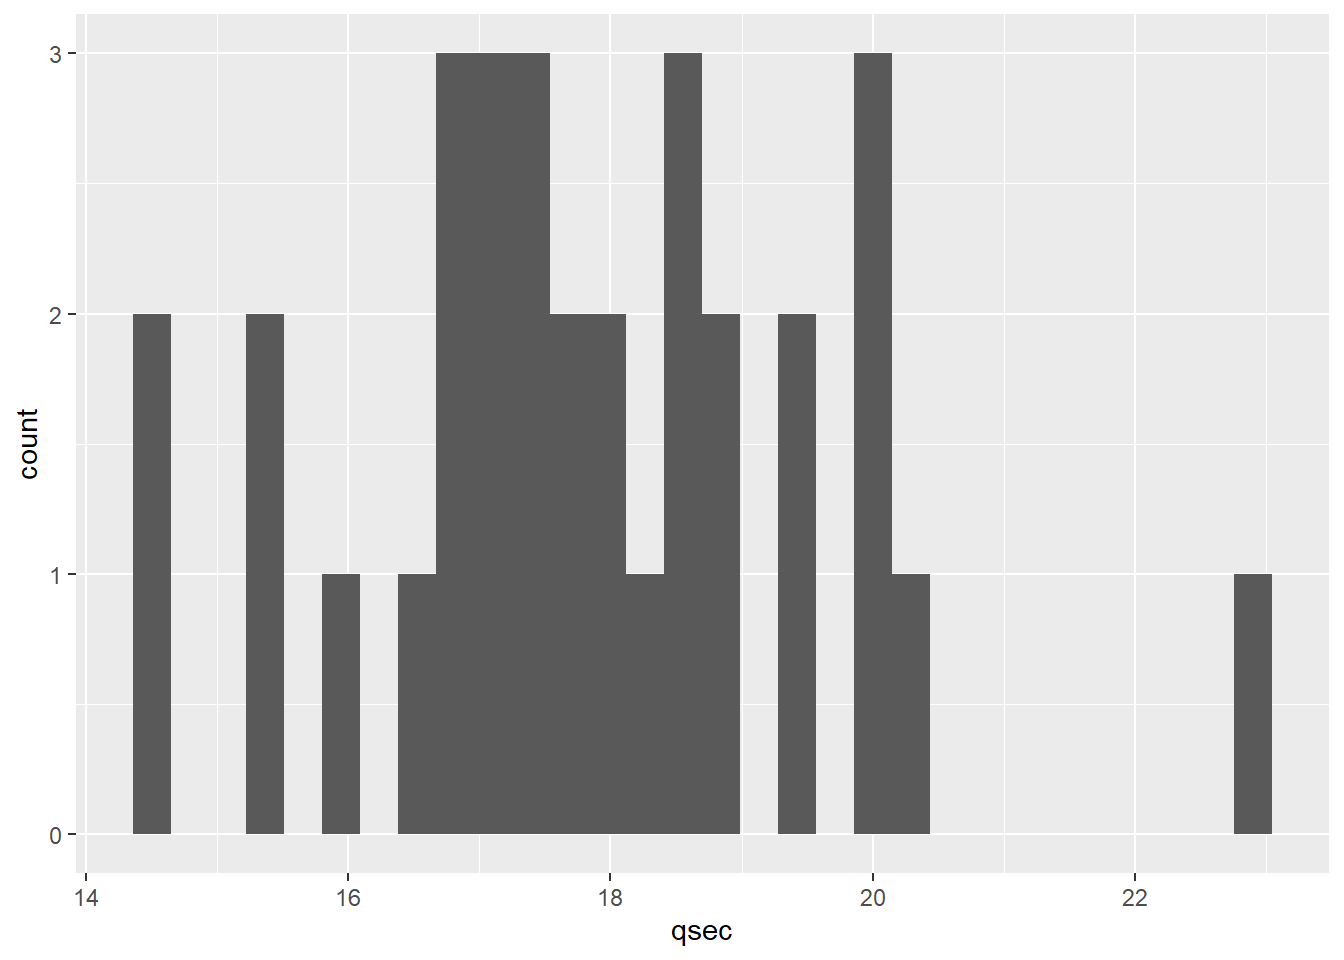
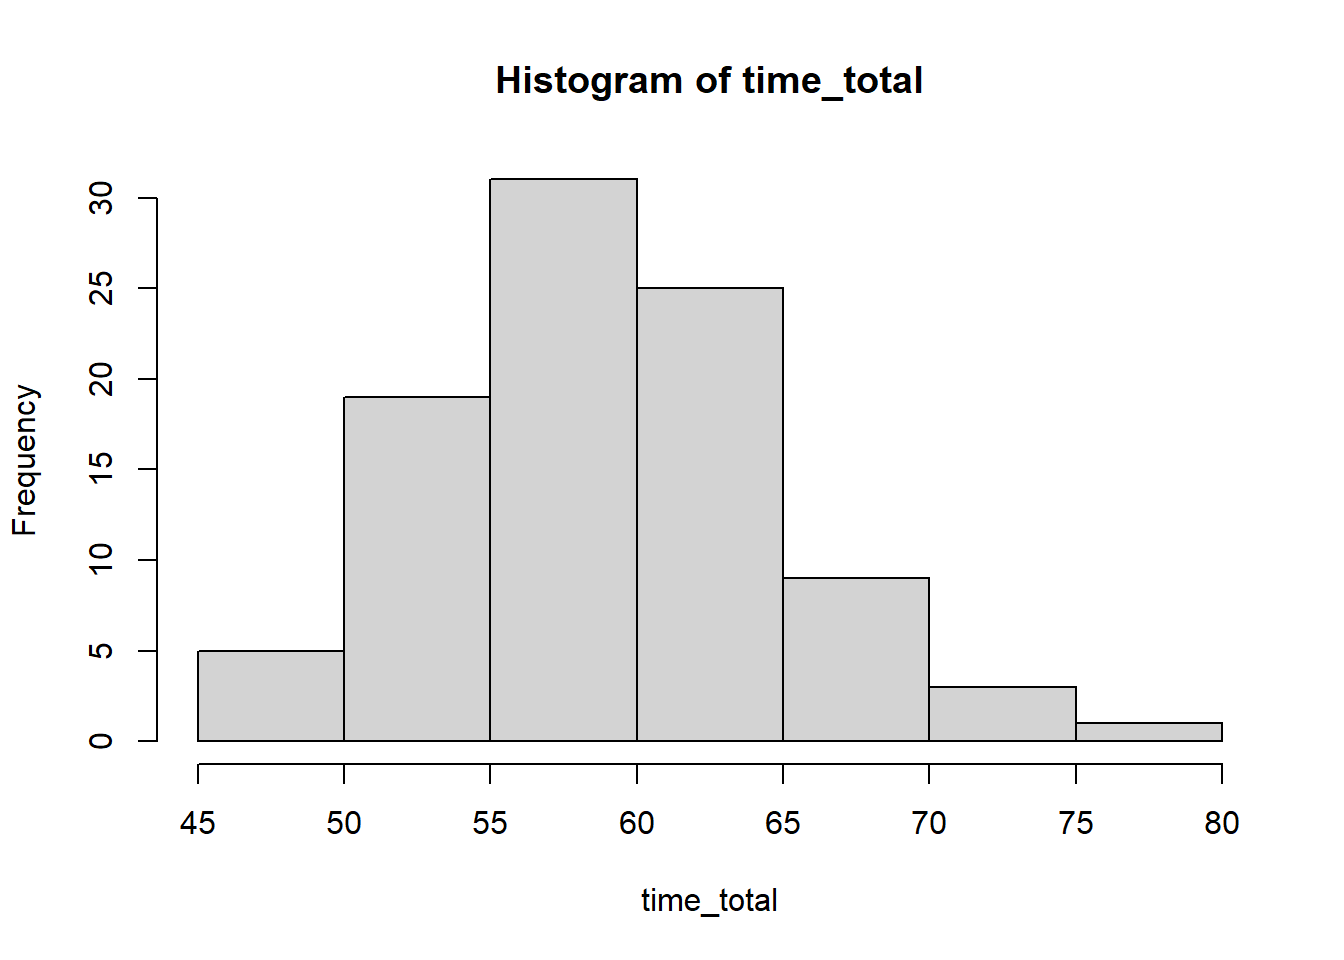
ex 3 getting the data

diff --git a/Statistics Exercises BK.html b/Statistics Exercises BK.html
@@ -193,6 +193,31 @@ window.Quarto = {
 <p>for any trip,</p>
 <p>for the trip to the university,</p>
 <p>for the return trip from the university.</p>
+<div class="cell">
+<div class="code-copy-outer-scaffold"><div class="sourceCode cell-code" id="cb3"><pre class="sourceCode r code-with-copy"><code class="sourceCode r"><span id="cb3-1"><a href="#cb3-1" aria-hidden="true" tabindex="-1"></a>URL <span class="ot">=</span> <span class="st">"https://docs.google.com/spreadsheets/d/1MvyoGcPtW3hUa4iARd2RLM6ahfMBFBYqfzet3K9_6do/edit?gid=1150951672#gid=1150951672"</span></span>
+<span id="cb3-2"><a href="#cb3-2" aria-hidden="true" tabindex="-1"></a><span class="fu">library</span>(googlesheets4)</span>
+<span id="cb3-3"><a href="#cb3-3" aria-hidden="true" tabindex="-1"></a><span class="fu">gs4_deauth</span>()</span>
+<span id="cb3-4"><a href="#cb3-4" aria-hidden="true" tabindex="-1"></a>data <span class="ot">&lt;-</span> <span class="fu">read_sheet</span>(URL)</span></code></pre></div><button title="Copy to Clipboard" class="code-copy-button"><i class="bi"></i></button></div>
+<div class="cell-output cell-output-stderr">
+<pre><code>✔ Reading from "rowery".</code></pre>
+</div>
+<div class="cell-output cell-output-stderr">
+<pre><code>✔ Range 'rowery'.</code></pre>
+</div>
+<div class="cell-output cell-output-stderr">
+<pre><code>New names:
+• `` -&gt; `...1`</code></pre>
+</div>
+<div class="code-copy-outer-scaffold"><div class="sourceCode cell-code" id="cb7"><pre class="sourceCode r code-with-copy"><code class="sourceCode r"><span id="cb7-1"><a href="#cb7-1" aria-hidden="true" tabindex="-1"></a>time_total <span class="ot">&lt;-</span> <span class="fu">as.numeric</span>(data<span class="sc">$</span>czas)</span>
+<span id="cb7-2"><a href="#cb7-2" aria-hidden="true" tabindex="-1"></a><span class="fu">hist</span>(time_total)</span></code></pre></div><button title="Copy to Clipboard" class="code-copy-button"><i class="bi"></i></button></div>
+<div class="cell-output-display">
+<div>
+<figure class="figure">
+<p><img src="Statistics-Exercises-BK_files/figure-html/unnamed-chunk-2-1.png" class="img-fluid figure-img" width="672"></p>
+</figure>
+</div>
+</div>
+</div>
 </section>
 <section id="hypothesis-testing" class="level3">
 <h3 class="anchored" data-anchor-id="hypothesis-testing">Hypothesis testing</h3>
@@ -208,7 +233,7 @@ window.Quarto = {
 <div class="cell-output-display">
 <div class="quarto-figure quarto-figure-center">
 <figure class="figure">
-<p><img src="Statistics-Exercises-BK_files/figure-html/unnamed-chunk-2-1.png" class="img-fluid figure-img" width="672"></p>
+<p><img src="Statistics-Exercises-BK_files/figure-html/unnamed-chunk-3-1.png" class="img-fluid figure-img" width="672"></p>
 <figcaption>Histogram of qsec</figcaption>
 </figure>
 </div>
